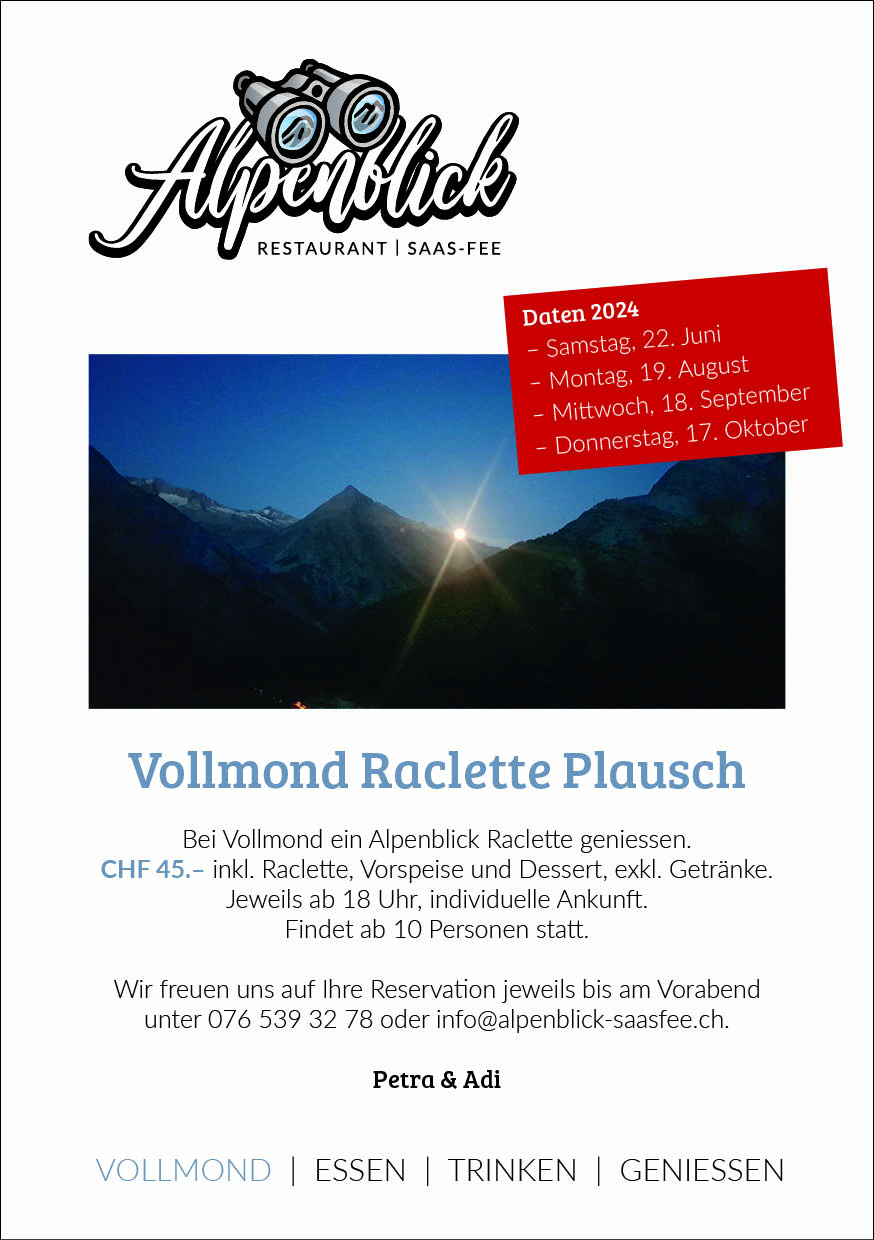
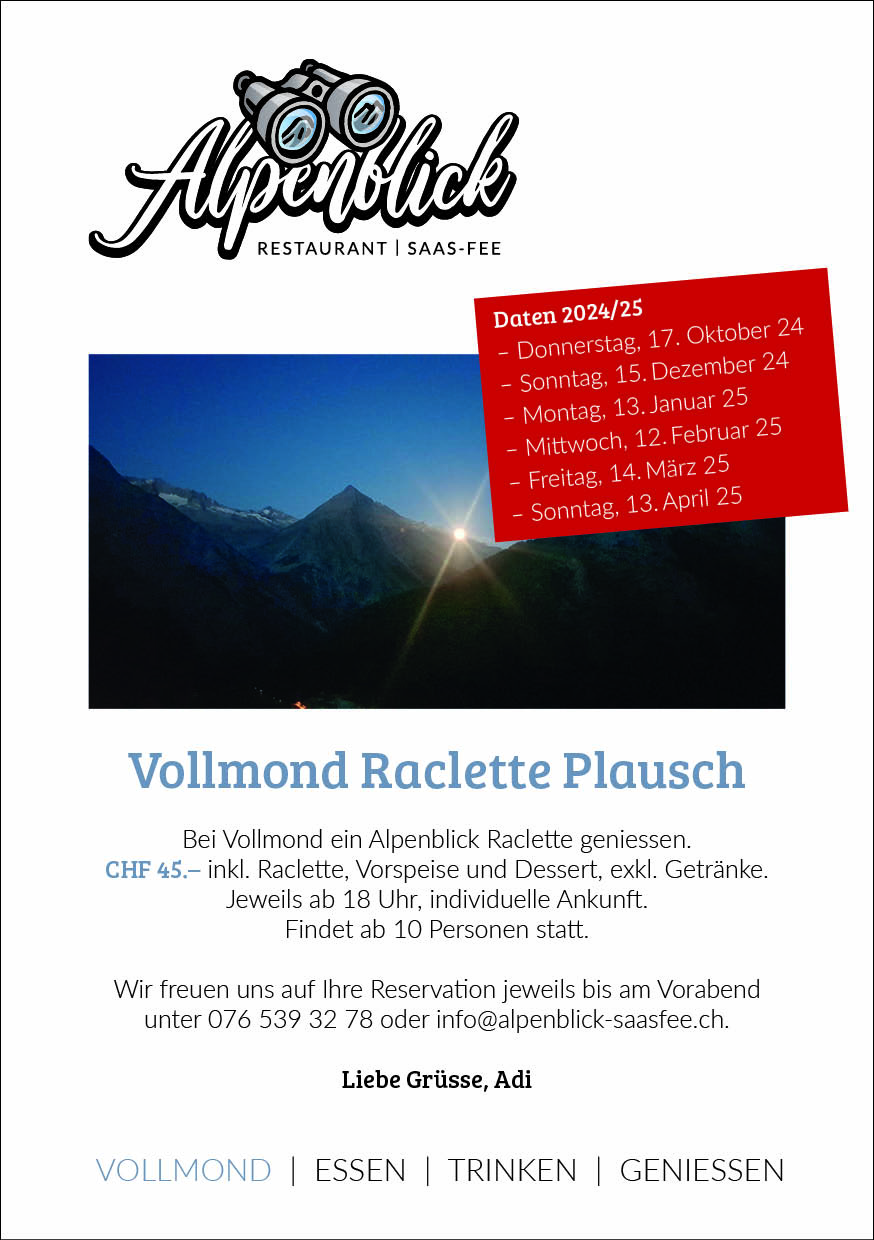
update homepage

diff --git a/content/_index.md b/content/_index.md
@@ -114,11 +114,15 @@ Unser kleines, aber feines <a href="images/Alpenblick_Flyer_Uebernachten_2022.jp
 ## Aktuelle Anlässe
 * Jeden Freitag: <a href="images/Alpenblick_Flyer_Freitag_Abend_Menu_2020.jpg" target="_blank"> Freitag Abend Überraschungsmenu</a>
 * Donnerstag, 17. Oktober 2024: <a href="images/Alpenblick_Flyer_Vollmond_Raclette_Plausch.jpg" target="_blank"> Vollmond Raclette Plausch</a>
+* Sonntag, 15. Dezember 2025: <a href="images/Alpenblick_Flyer_Vollmond_Raclette_Plausch.jpg" target="_blank"> Vollmond Raclette Plausch</a>
+* Montag, 13. Januar 2025: <a href="images/Alpenblick_Flyer_Vollmond_Raclette_Plausch.jpg" target="_blank"> Vollmond Raclette Plausch</a>
+* Mittwoch, 12. Februar 2025: <a href="images/Alpenblick_Flyer_Vollmond_Raclette_Plausch.jpg" target="_blank"> Vollmond Raclette Plausch</a>
+* Freitag, 14. März 2025: <a href="images/Alpenblick_Flyer_Vollmond_Raclette_Plausch.jpg" target="_blank"> Vollmond Raclette Plausch</a>
+* Sonntag, 13. April 2025: <a href="images/Alpenblick_Flyer_Vollmond_Raclette_Plausch.jpg" target="_blank"> Vollmond Raclette Plausch</a>
 
 <!-- * Samstag, 24. Dezember 2022: <a href="images/Alpenblick_Flyer_Weihnachtsmenu.jpg" target="_blank"> Weihnachtsmenu</a> -->
 <!-- * Montag, 25. Dezember 2023: <a href="images/Alpenblick_Flyer_Christmas_Fondue.jpg" target="_blank"> Christmas Fondue</a> -->
 <!-- * Sonntag, 31. März 2024: <a href="images/Alpenblick_Flyer_Ostern.jpg" target="_blank"> Alpenblick Ostereiersuche</a> -->
-<!-- * Samstag, 22. Juni 2024: <a href="images/Alpenblick_Flyer_Vollmond_Raclette_Plausch.jpg" target="_blank"> Vollmond Raclette Plausch</a> -->
 <!-- * Sonntag, 10. Juli 2022: <a href="https://www.saas-fee.ch/de/events/top-events-im-sommer/saaser-gourmet-trail" target="_blank"> Saaser Gourmet-Trail</a> -->
 <!-- * Sonntag, 21. Juli 2024: <a href="images/Alpenblick_Flyer_Ziegenfest.jpg" target="_blank"> Ziegenfest Saas--Fee</a> -->
 <!-- * Donnerstag, 01. August 2024: <a href="images/Alpenblick_Flyer_1_August.jpg" target="_blank"> 1.-August-BBQ</a> -->
